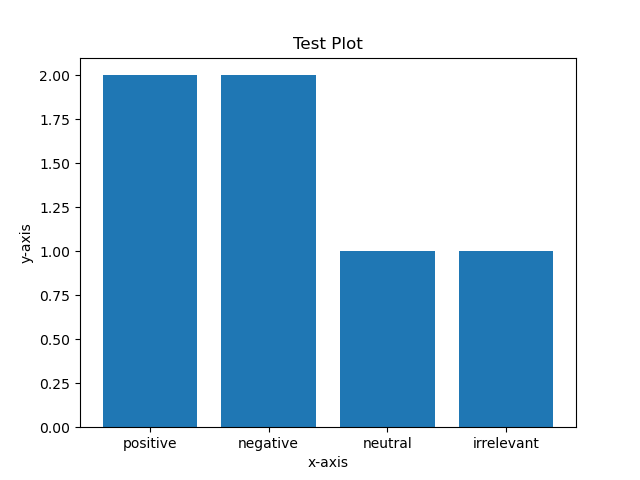
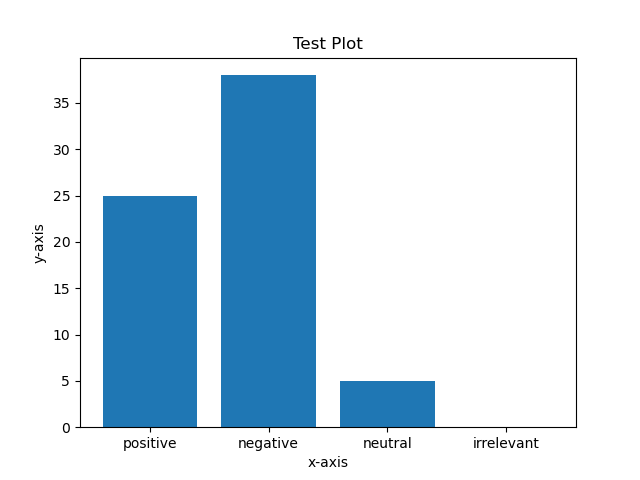
final version

diff --git a/visualize.py b/visualize.py
@@ -3,10 +3,12 @@ import matplotlib.pyplot as plt
 
 def make_plot(sentiments: list) -> list:
     """
+    Args:
     Assigned each sentiment to a variable and then created a graph for each of those sentiments 
+    Return:
+    Graph populates from print through the sentiment assigning
     
     """
-    data=()
     a= sentiments.count ("positive")
     b= sentiments.count ("negative")
     c= sentiments.count ("neutral")
@@ -19,6 +21,6 @@ def make_plot(sentiments: list) -> list:
     fig, ax = plt.subplots()
     ax.bar(["positive", "negative", "neutral", "irrelevant"], [a,b,c,d])
     ax.set_title("Test Plot")
-    ax.set_xlabel("x-axis")
-    ax.set_ylabel("y-axis")
-    fig.savefig("images/")
+    ax.set_xlabel("Sentiments")
+    ax.set_ylabel("Amount of Sentiments")
+    fig.savefig("images/Visual_sentiment")

diff --git a/label.py b/label.py
@@ -40,12 +40,3 @@ def get_sentiment(text: list) -> list:
     return completion.choices[0].message.content.split()   # Converting strings into a list
 
 
-#in_data = [
-       # "this ring smells weird, don't recomend",
-        #"I love this ring, I use it all the time when working out.",
-        #"I will never buy another brand again, I love this ring",
-        #"It's an ok ring. Some features could be better but for the price its fine.",
-        #"its a ring",
-        #"Bought this ring and it came broken. rip-off."
-    #]
-#get_sentiment(in_data)

diff --git a/main.py b/main.py
@@ -25,11 +25,6 @@ def run(filepath: str):
     # plot a visualization expressing sentiment ratio
     make_plot(rev_list)
 
-    # return sentiments
-    #sentiment_count = zip(Extract_rev,rev_list)
-    #print(list(sentiment_count))
-    #for review, senti in sentiment_count:
-       # print(f"review:{review}\n sentiment:{senti}\n")
     return rev_list
 
 
